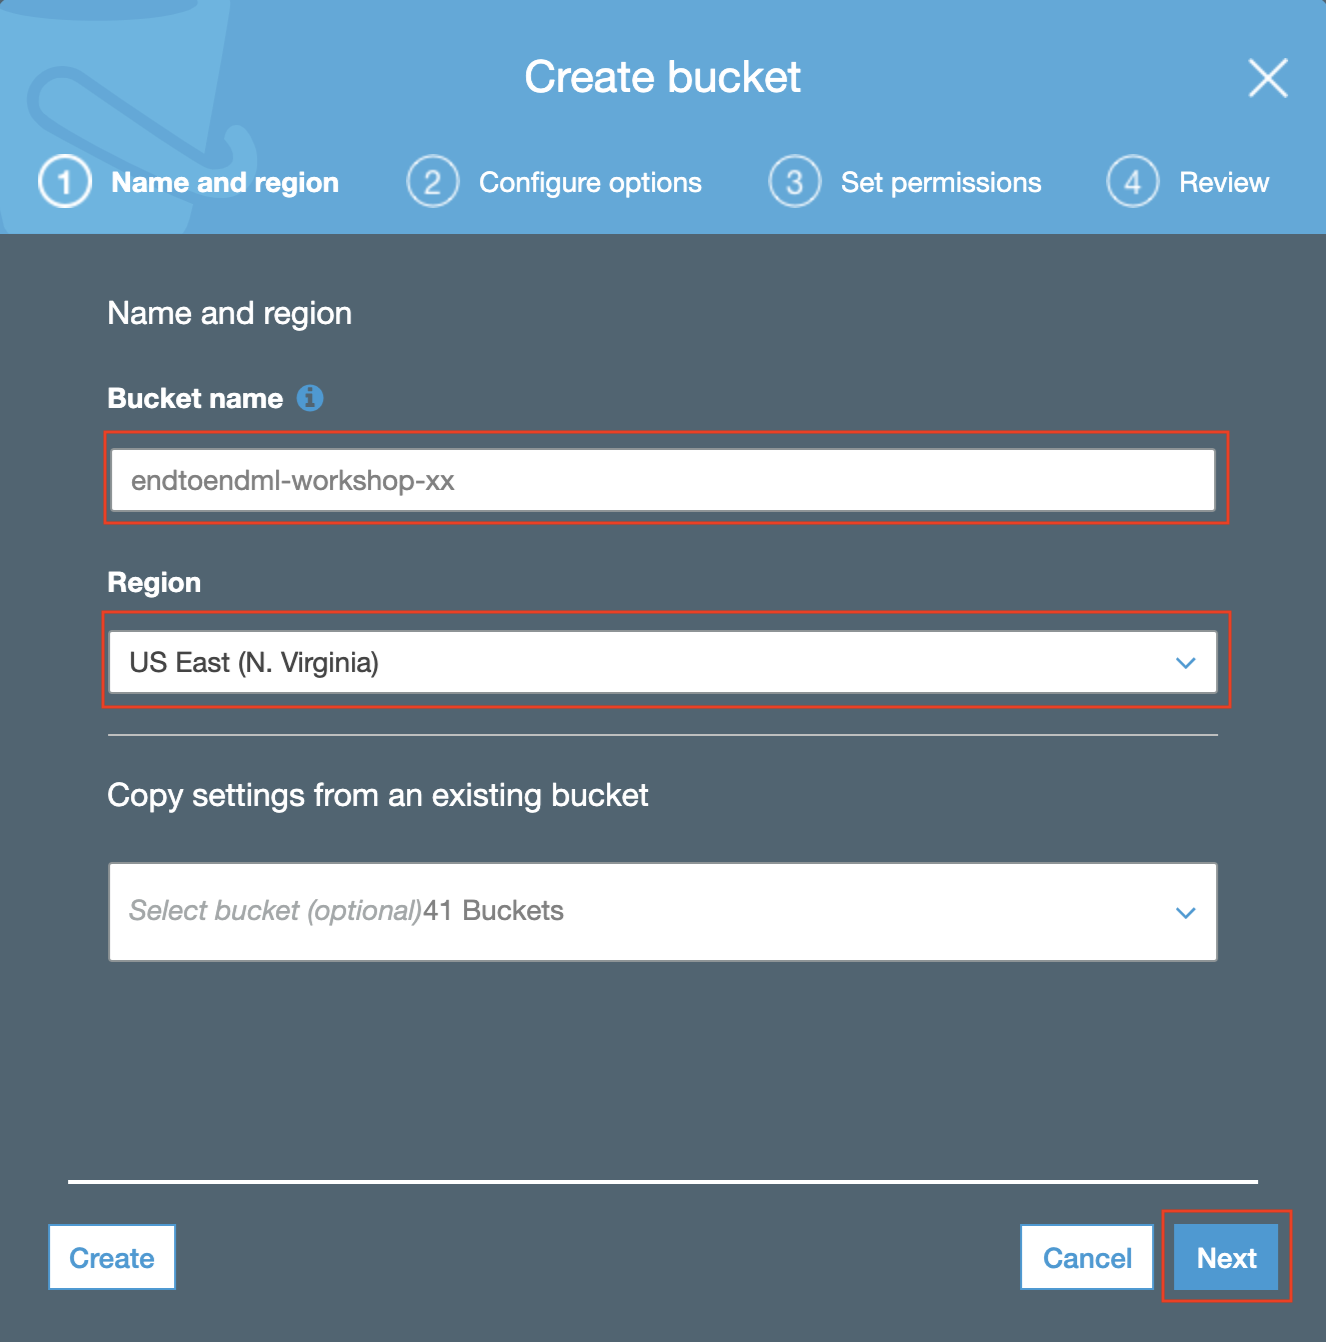
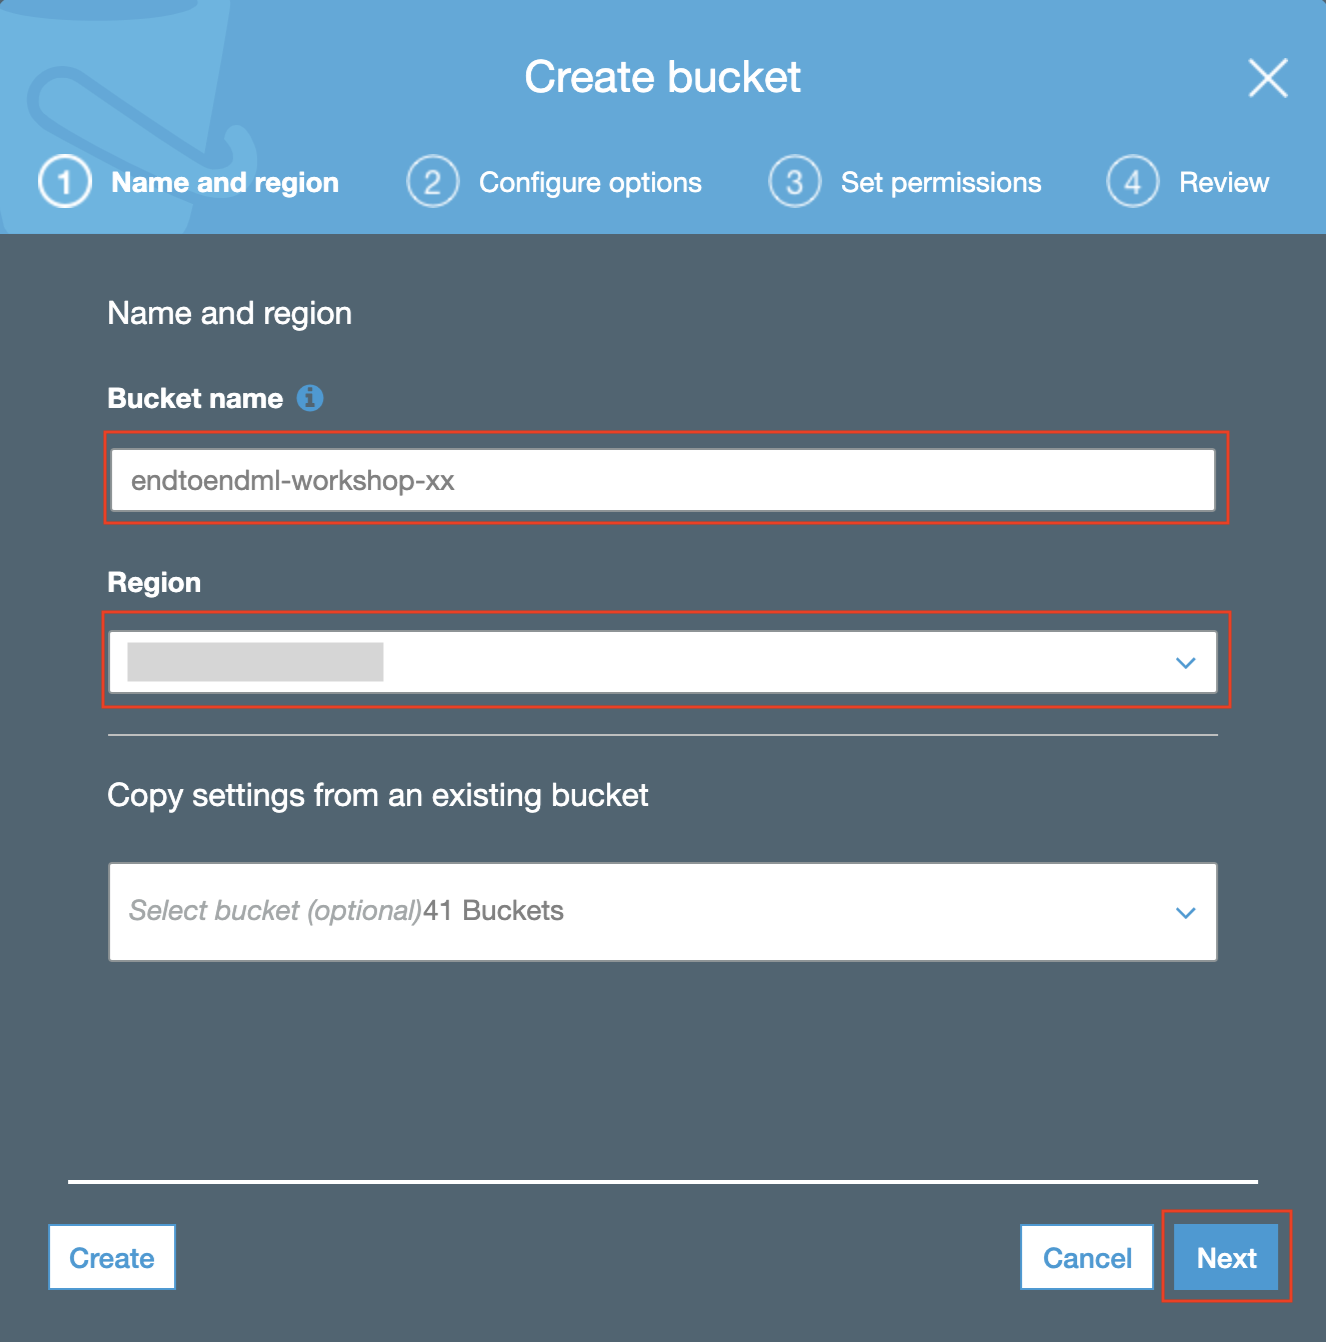
Minor changes.

Changed region(s): [[0.0928, 0.4583, 0.3092, 0.5194]]

diff --git a/01_create_notebook_instance/README.md b/01_create_notebook_instance/README.md
@@ -13,13 +13,13 @@ In this section, we will walk you through creating a fully-managed Jupyter Noteb
 ## Create an Amazon S3 bucket
 In this section, we will create an Amazon S3 bucket that will be our storage area. Amazon SageMaker and AWS Glue can both use **Amazon S3** as the main storage for both data and artifacts.
 
-1. Sign into the **AWS Management Console** at <a href="https://console.aws.amazon.com/">https://console.aws.amazon.com/</a>
+1. Sign into the **AWS Management Console** using the link provided by the workshop instructors [or at <a href="https://console.aws.amazon.com/">https://console.aws.amazon.com/</a> if you are using your own AWS account].
 
-2. In the upper-right corner of the AWS Management Console, confirm you are in the desired AWS region. For the instructions of these workshop we will assume using the **US East (N. Virginia)** [us-east-1], but feel free to change the region at your convenience.
+2. In the upper-right corner of the AWS Management Console, confirm you are in the desired AWS region. For the instructions of these workshop we will assume using the **EU West (Ireland)** [eu-west-1], but feel free to change the region at your convenience.
 
 	> The only constraints for changing AWS region are that we keep consistent the region settings for all services used and services are available in the selected region (please check in case you plan to execute this workshop in another AWS region).
 
-3. Open the **Amazon S3** console at <a href="https://console.aws.amazon.com/s3">https://console.aws.amazon.com/s3</a> or choose the Amazon S3 service in the menu.
+3. Open the **Amazon S3** console by choosing the Amazon S3 service in the menu.
 4.	In the Amazon S3 console, click the **Create Bucket** button.
 	<img src="images/create_bucket.png" alt="create bucket" width="500px" />
 	
